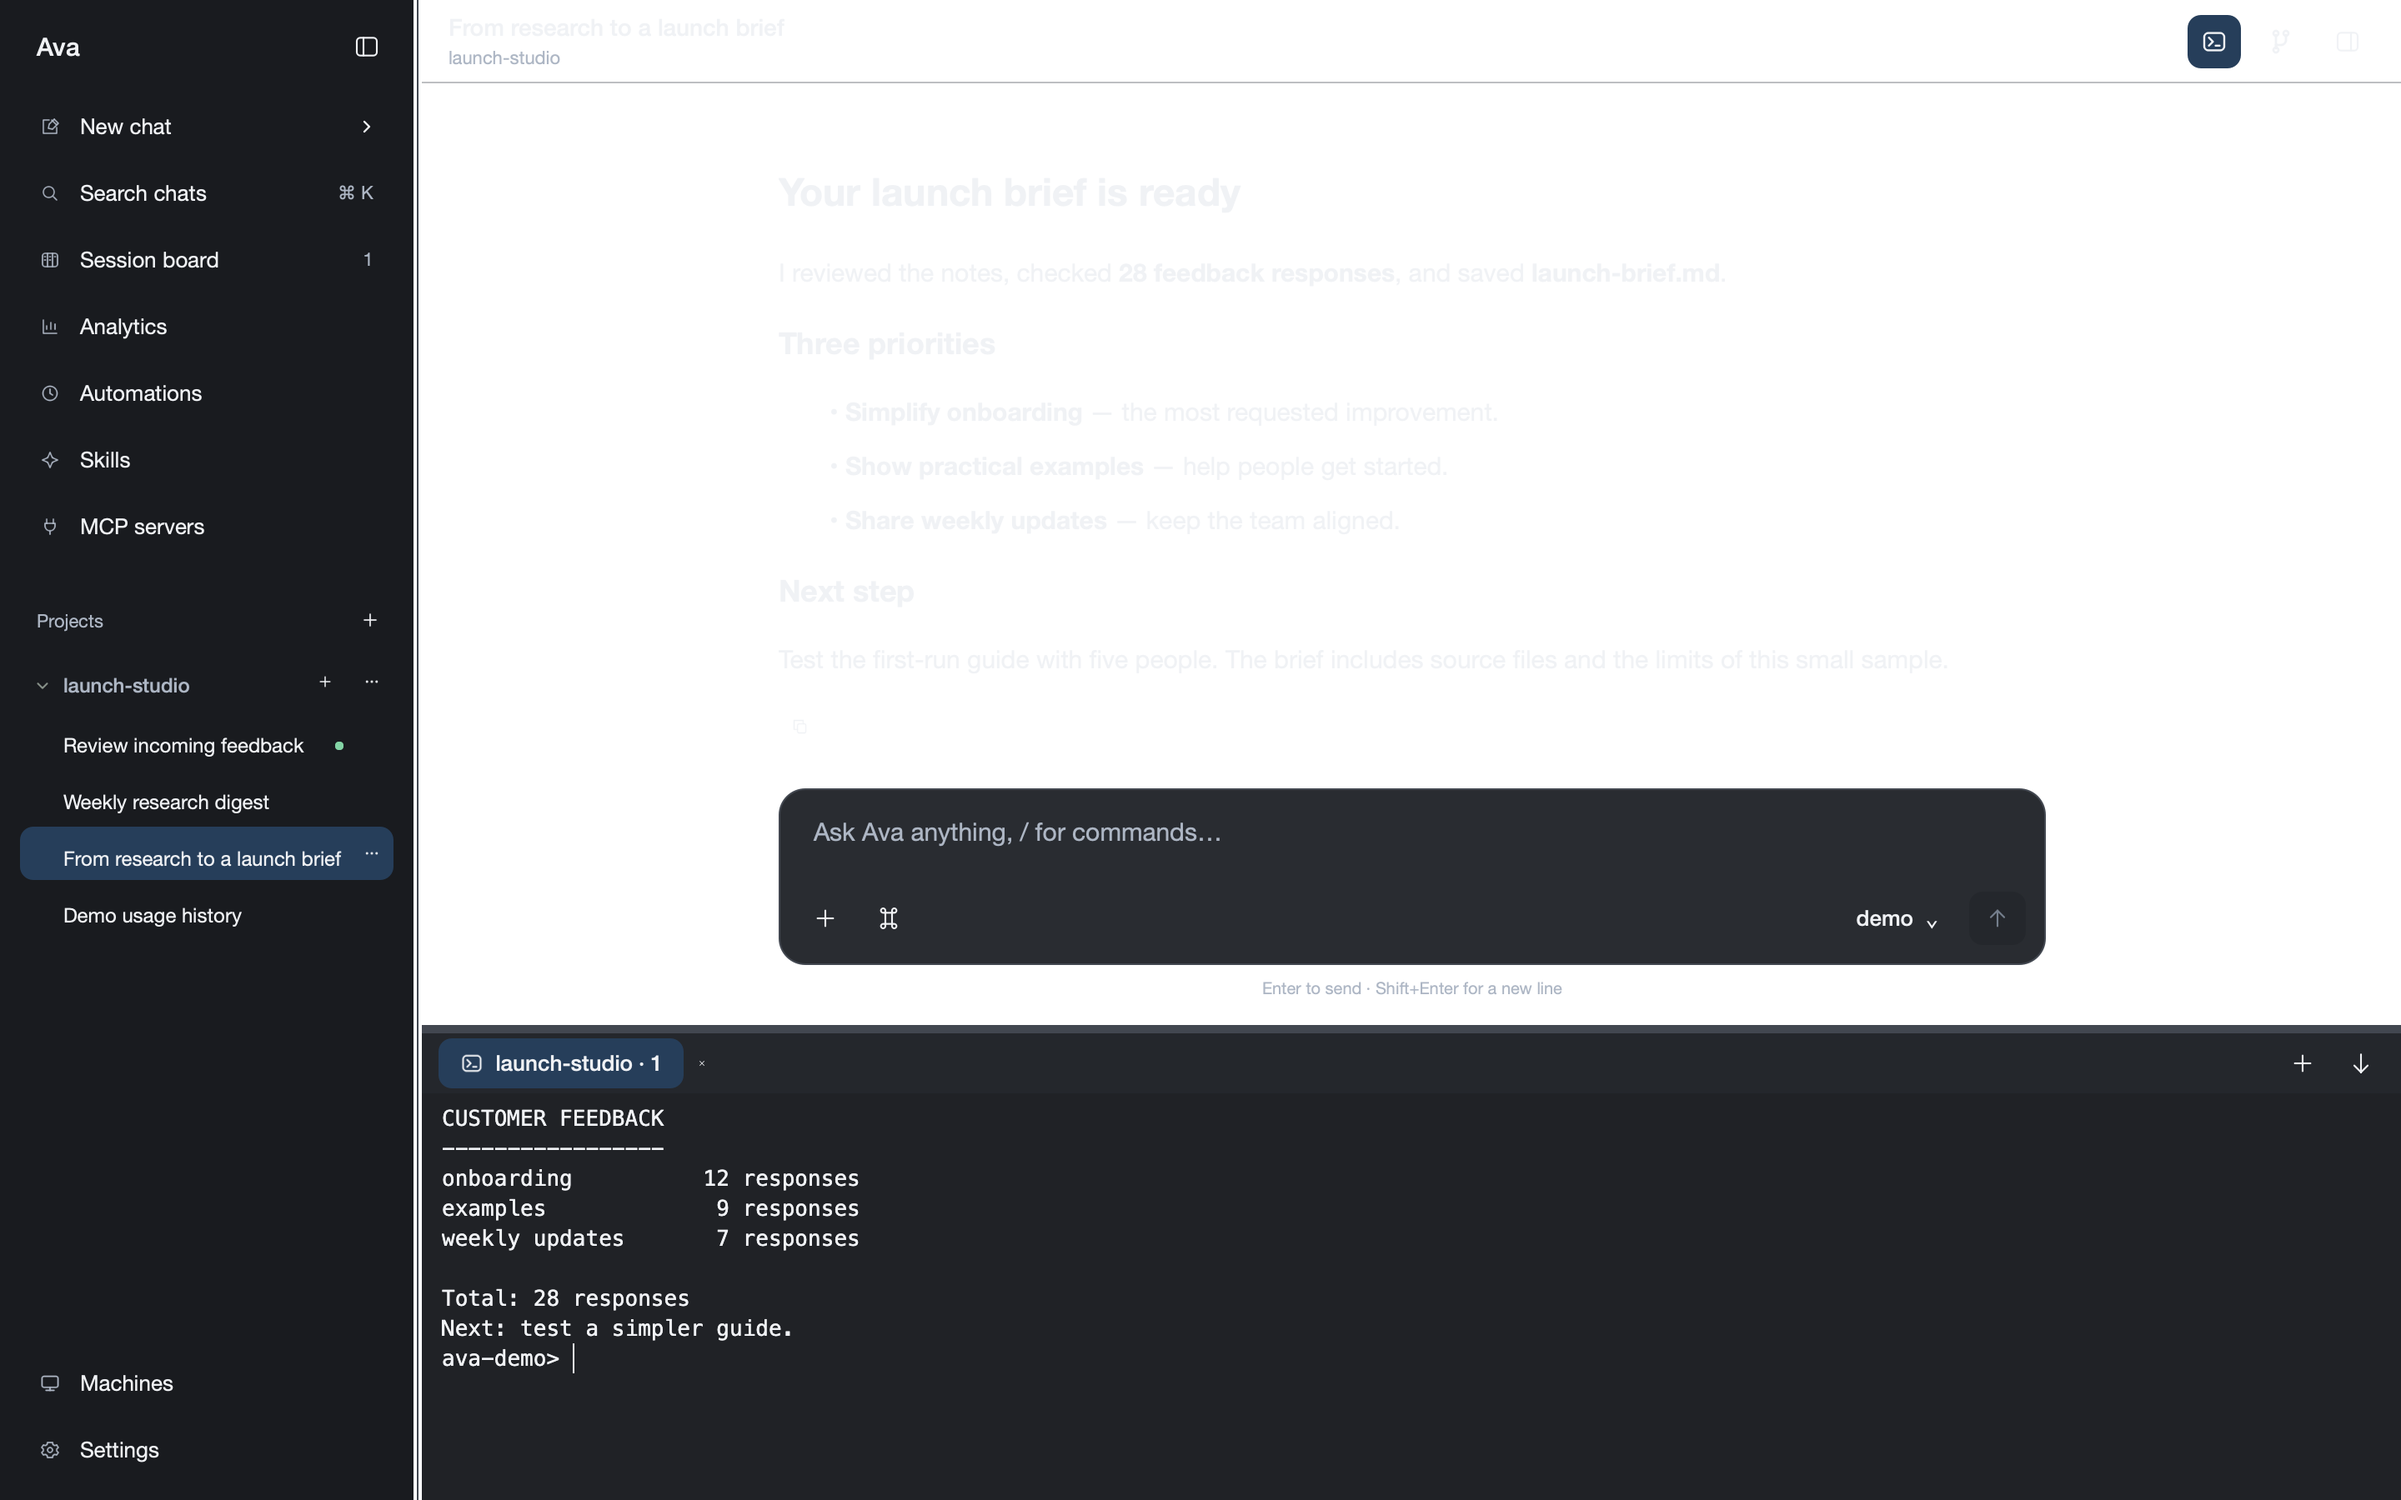
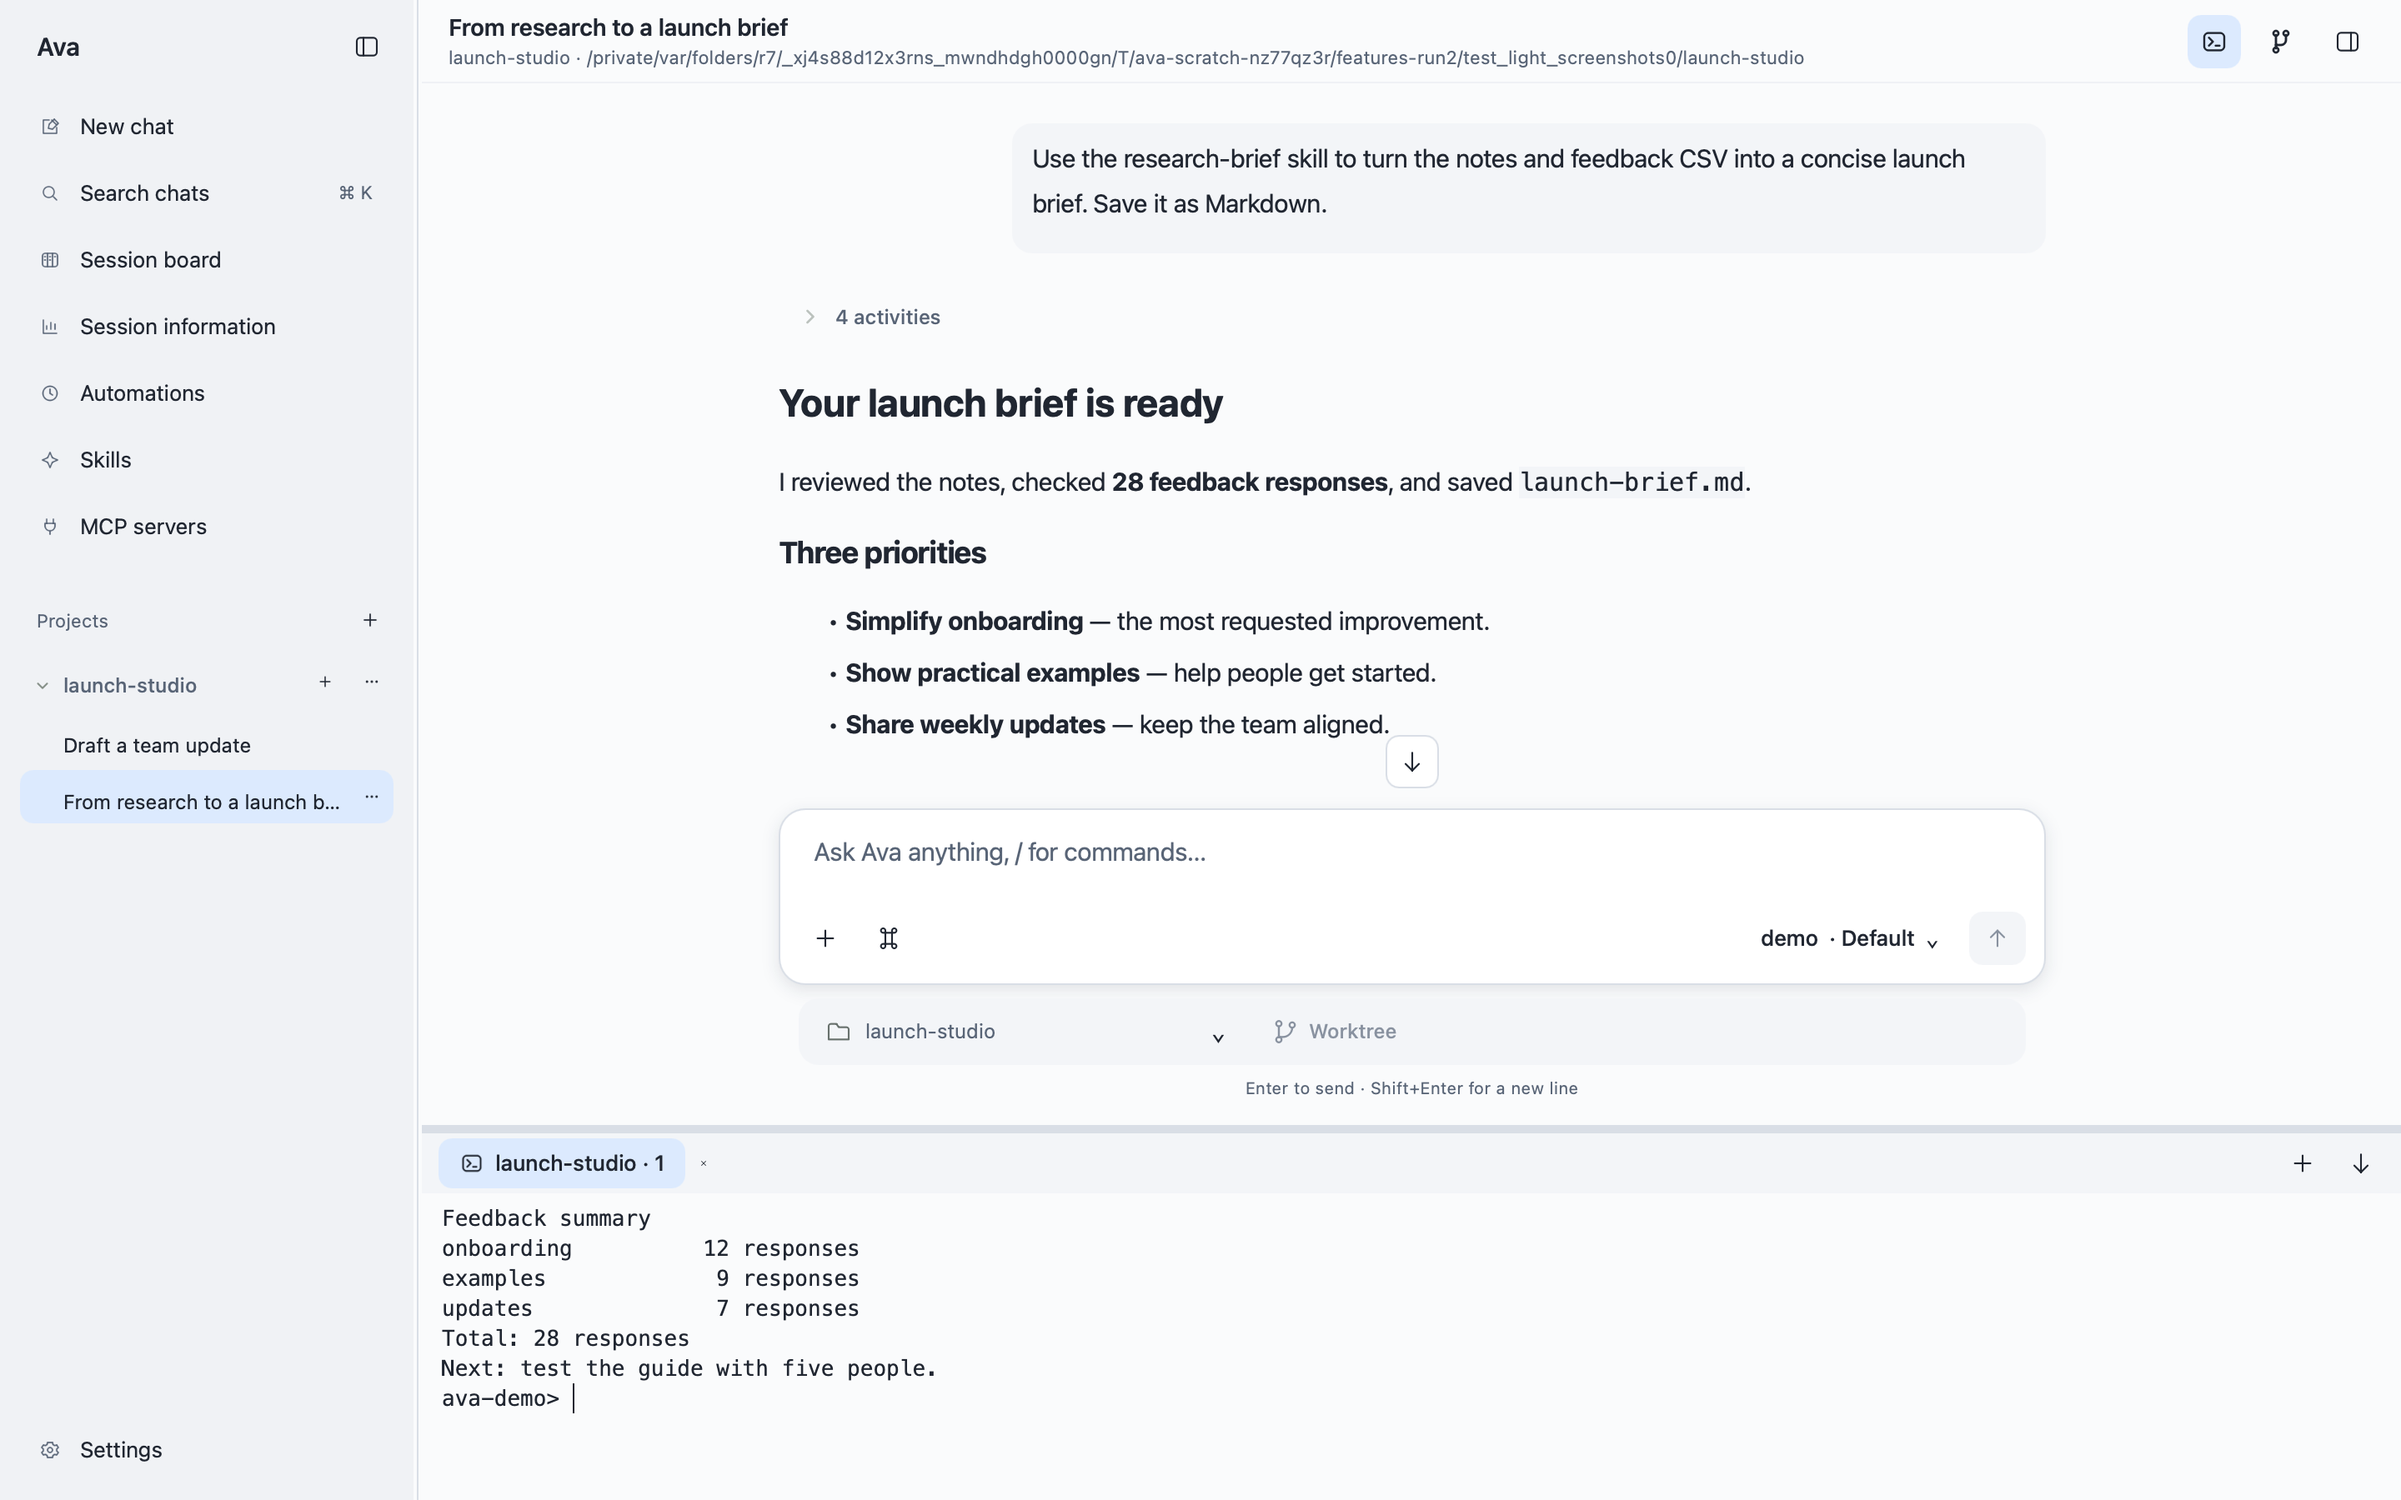
Refresh feature highlights and use light-theme documentation screenshots

diff --git a/README.md b/README.md
@@ -34,15 +34,19 @@ doesn't have to be a code repository.
 - **[Automate routines](docs/features.md#automations-and-background-work)** — schedule prompts and return to the results.
 - **[Build software](docs/features.md#git-and-terminals)** — edit code, run tests, and review changes.
 
-## Highlights
+## Feature highlights
 
-- **[Quick Chat](docs/features.md#quick-chat)** — press **⌘⌥Space** on macOS to bring up Ava from any app, ask a question or start a task, then get back to what you were doing.
-- **[Native desktop workbench](docs/features.md#desktop-workbench)** — conversations, files, images, and PDF previews together.
-- **[Skills and MCP](docs/features.md#skills-and-mcp)** — reusable instructions and connected tools.
-- **[Durable sessions and SSH](docs/features.md#sessions-and-remote-machines)** — pick up work locally or on another machine.
-- **[Session board and analytics](docs/features.md#session-board-and-analytics)** — track active work, results, and usage.
-- **[Your choice of model](docs/features.md#models-and-providers)** — Anthropic, OpenAI, DeepSeek, Codex, and custom endpoints.
-- **[Multiple interfaces](docs/features.md#interfaces)** — desktop, Web UI, CLI, and Python API.
+- **[Quick Chat](docs/features.md#quick-chat)** — press **⌘⌥Space** on macOS to start a task from any app, then continue in the workbench.
+- **[Desktop workbench](docs/features.md#desktop-workbench)** — conversations, file and image attachments, Markdown, and multi-page PDF previews together.
+- **[Browser handoff](docs/features.md#browser-handoff)** — share a visible tab with Ava to navigate and fill forms; take control back at any time.
+- **[Skills and MCP](docs/features.md#skills-and-mcp)** — reuse project instructions and connect external tools.
+- **[Automations](docs/features.md#automations-and-background-work)** — schedule recurring tasks and review each run as a conversation.
+- **[Sessions and SSH](docs/features.md#sessions-and-remote-machines)** — search and resume conversations; keep remote projects and execution on their machine.
+- **[Session board and analytics](docs/features.md#session-board-and-analytics)** — organize work by review status and inspect token and activity trends.
+- **[Git and terminals](docs/features.md#git-and-terminals)** — run interactive shells, review and stage diffs, commit changes, and work in isolated worktrees.
+- **[Models and providers](docs/features.md#models-and-providers)** — choose Anthropic, OpenAI, DeepSeek, Codex, or custom endpoints per conversation.
+- **[Context and activity](docs/features.md#context-and-activity)** — inspect tool calls and estimated context usage, with automatic compaction for long conversations.
+- **[Multiple interfaces](docs/features.md#interfaces)** — native desktop, Web UI, CLI, and Python API.
 
 [![Ava Quick Chat with a weekly project update conversation and a follow-up draft](docs/assets/tour/desktop-quick-chat.png)](docs/features.md#quick-chat)
 

diff --git a/docs/features.md b/docs/features.md
@@ -284,7 +284,8 @@ OpenAI-compatible or Anthropic-compatible endpoint. Configure connections in
 ![Desktop provider settings with a verified local demo connection](assets/demo/provider-settings.png)
 
 Choose a provider, model, and supported reasoning effort per conversation without
-changing other conversations. The screenshots use a scripted `demo` provider.
+changing other conversations. The screenshots use local, scripted test providers,
+not production credentials.
 
 ![Per-conversation model and reasoning-effort selection](assets/tour/desktop-models.png)
 
